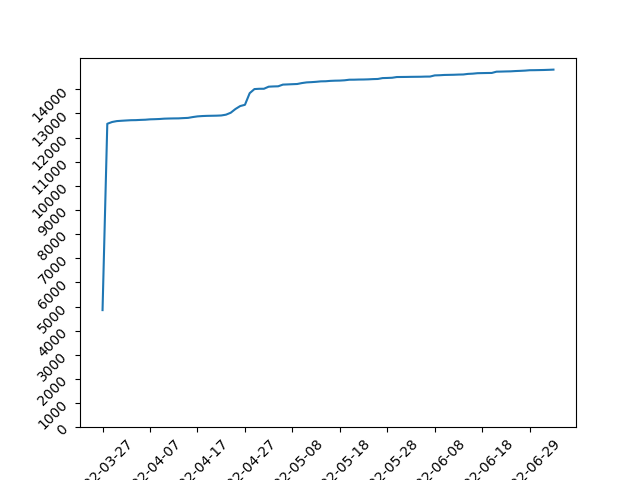
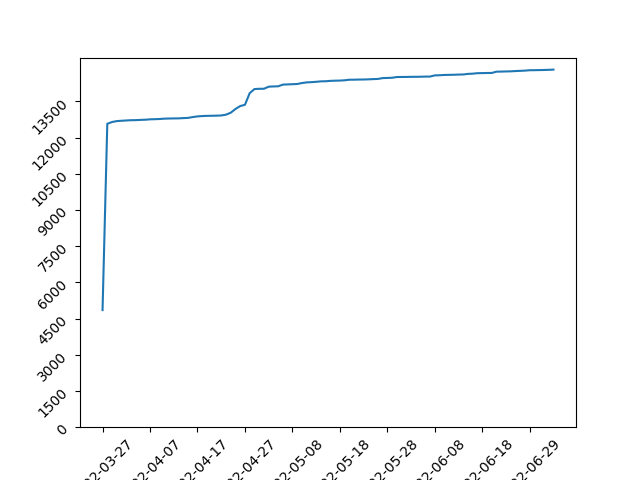
plot objects

diff --git a/report.py b/report.py
@@ -287,8 +287,6 @@ def get_draw_objects(file1name, file2name):
     if index == 0:
       continue
     num_objects[index] += num_objects[index-1]  
-  print(sizes)
-  print(num_objects)
   plt.xlabel('Dates')
   plt.ylabel('Size')
   plt.title('Size (Sum, GB)')
@@ -309,7 +307,7 @@ def get_draw_objects(file1name, file2name):
   fig, ax = plt.subplots()
   plt.plot(dates, num_objects)
   ax.set_xticks(np.arange(0, len(dates)+1, 10))
-  ax.set_yticks(np.arange(0, max(num_objects), 1000))
+  ax.set_yticks(np.arange(0, max(num_objects), 1500))
   plt.xticks(rotation=45)
   plt.yticks(rotation=45)
   
